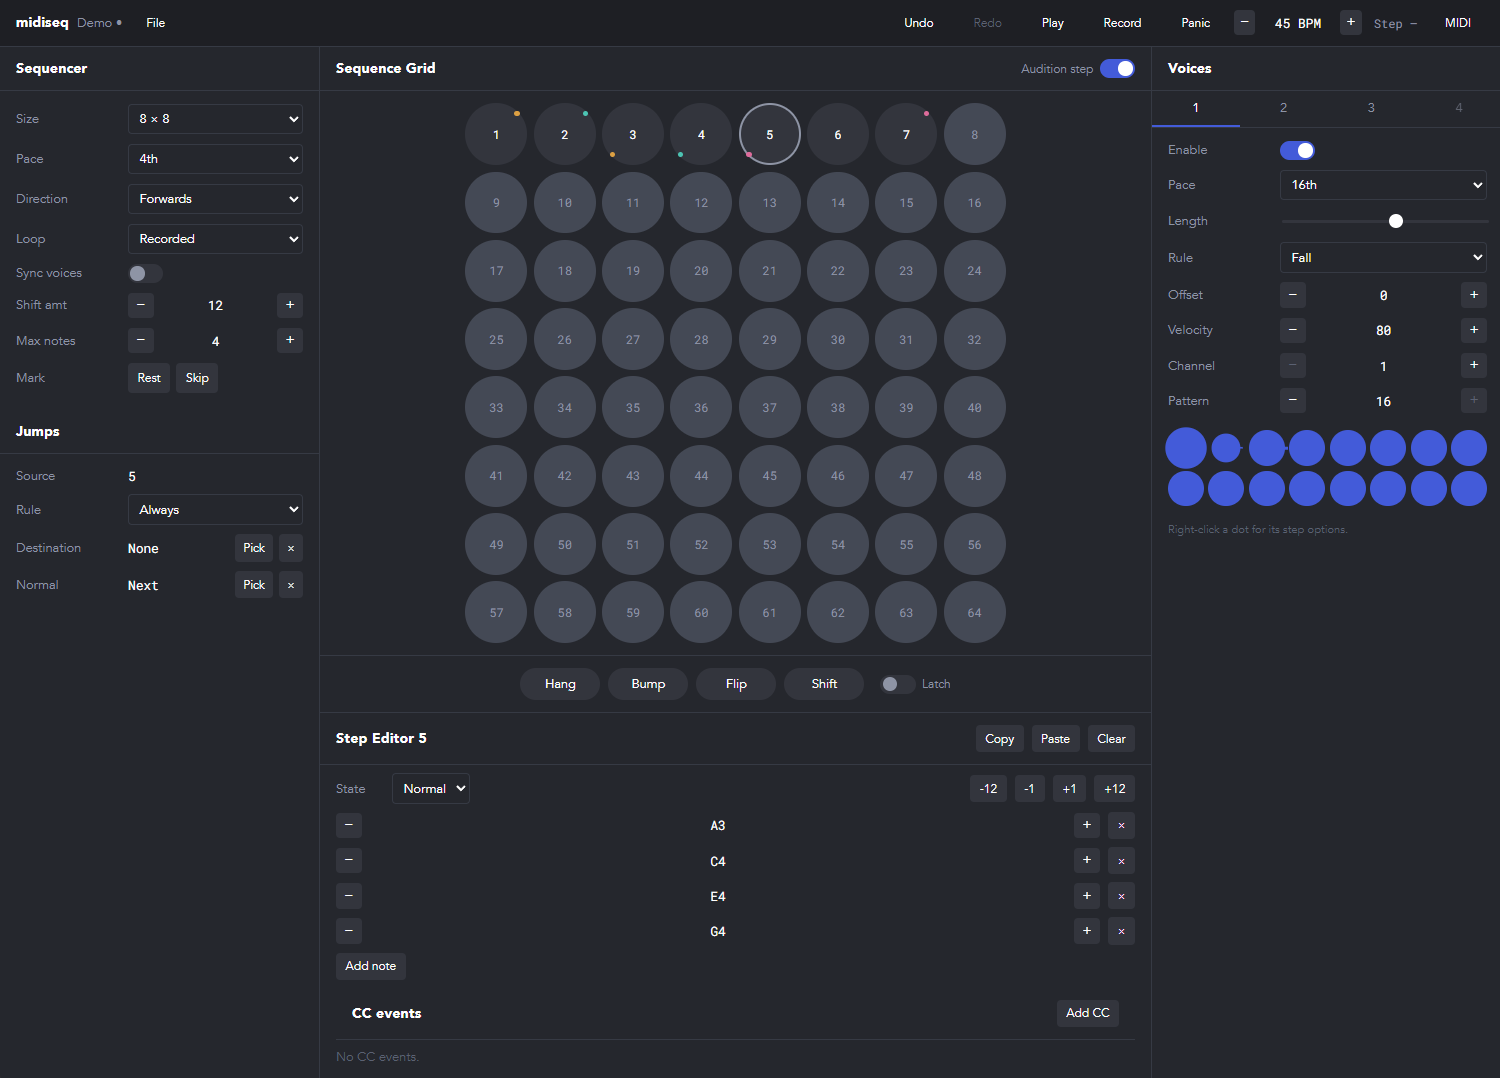
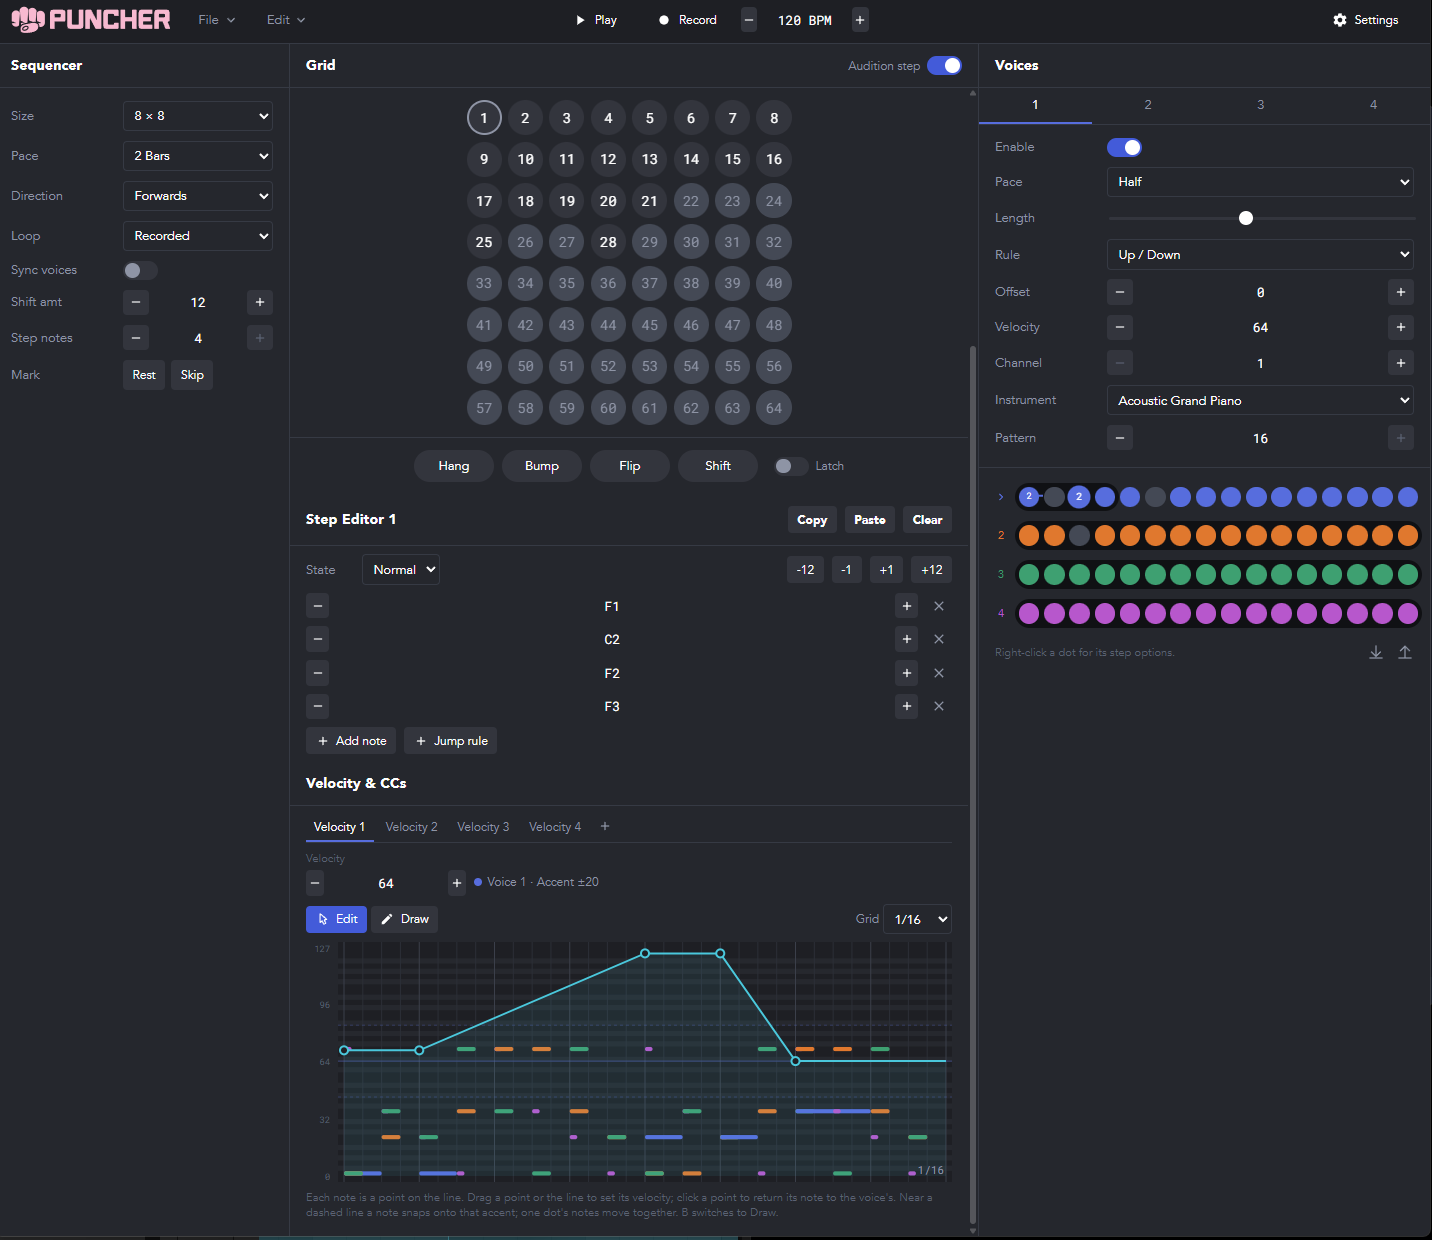
README: Edit menu, ending a take, CC tabs across steps
Undo and Redo now live in the Edit menu and Clear all is File → New. Play,
New, Open and Save end a take; channel-mode and protocol CCs aren't
recorded; an open CC tab stays open from step to step. Refreshes the
screenshot.

diff --git a/README.md b/README.md
@@ -62,8 +62,8 @@ settings (the icon at the left of the address bar), then press **Enable MIDI**.
 
 **Transport.** **Play** starts the sequencer and **Record** arms recording;
 stopping also silences anything still sounding. The tempo can be stepped or
-typed straight into. **Clear all**, **Undo** and **Redo** sit beside the File
-menu on the left.
+typed straight into. On the left, the **File** menu starts a new patch, opens
+and saves, and the **Edit** menu holds **Undo** and **Redo**.
 
 **Recording.** Arm **Record**, click the step you want to start from, and play.
 A step fills to **Step notes** — four by default, one for each voice — and only
@@ -73,7 +73,11 @@ sequence plays, as a curve on the step you hear it on, from the moment it
 moved; while stopped, spread across the record step in the order you turned
 it. An envelope keeps its timing if you change the pace afterwards: a shorter
 step plays what fits, a longer one holds the last value. Turn Record off when
-you're done.
+you're done; pressing Play, or starting a new patch, opening or saving one,
+ends the take too. Knob messages that aren't a control's position — All Sound
+Off, All Notes Off and the other channel-mode messages, bank select, and
+RPN/NRPN data entry — are left out, so a DAW's start/stop burst can't fill a
+step with tabs.
 
 **The grid.** Each circle is a step holding up to four notes, one for each
 voice to draw from, and any number of CC envelopes. Clicking one selects it, sounds it, and shows it in
@@ -113,7 +117,9 @@ double-click anywhere; drag a point, or drag the line to raise it; click a
 point to delete it. In **Draw** (press **B** with the graph focused), drag to
 paint values across the grid. Points snap to the grid unless you hold **Alt**.
 An envelope sends its first value as the sequencer lands on the step, then
-follows its line until the next.
+follows its line until the next. The open tab stays open as you click from
+step to step: on a step without that CC it shows an empty, dimmed lane, and
+drawing into it adds the CC there.
 
 **Voices.** Each of the four voices has its own pace, gate length, note-picking
 rule (up, down, random, highest, and so on), octave offset, velocity, channel
